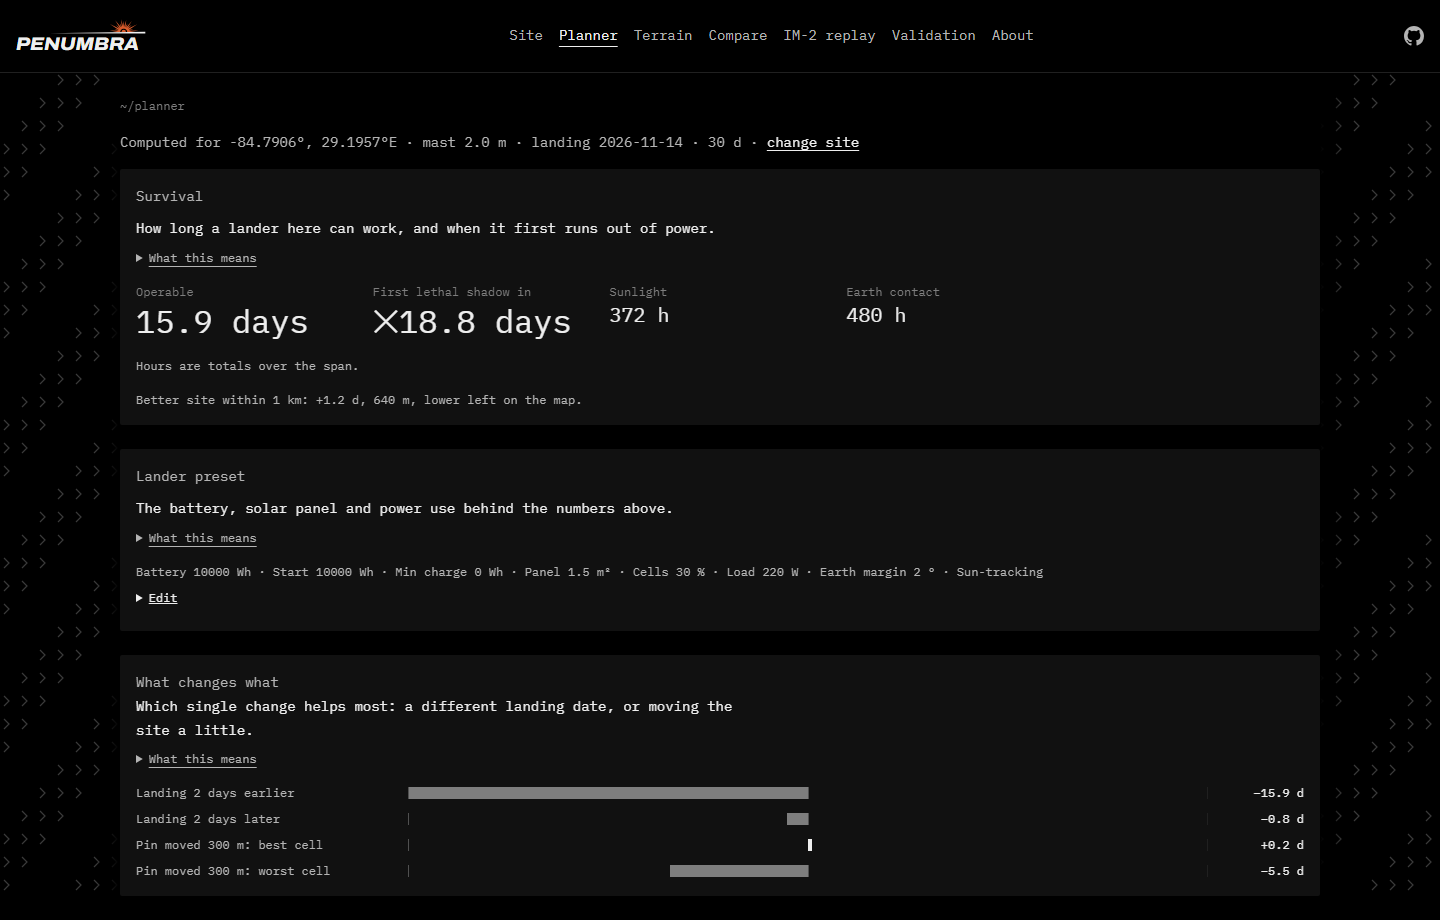
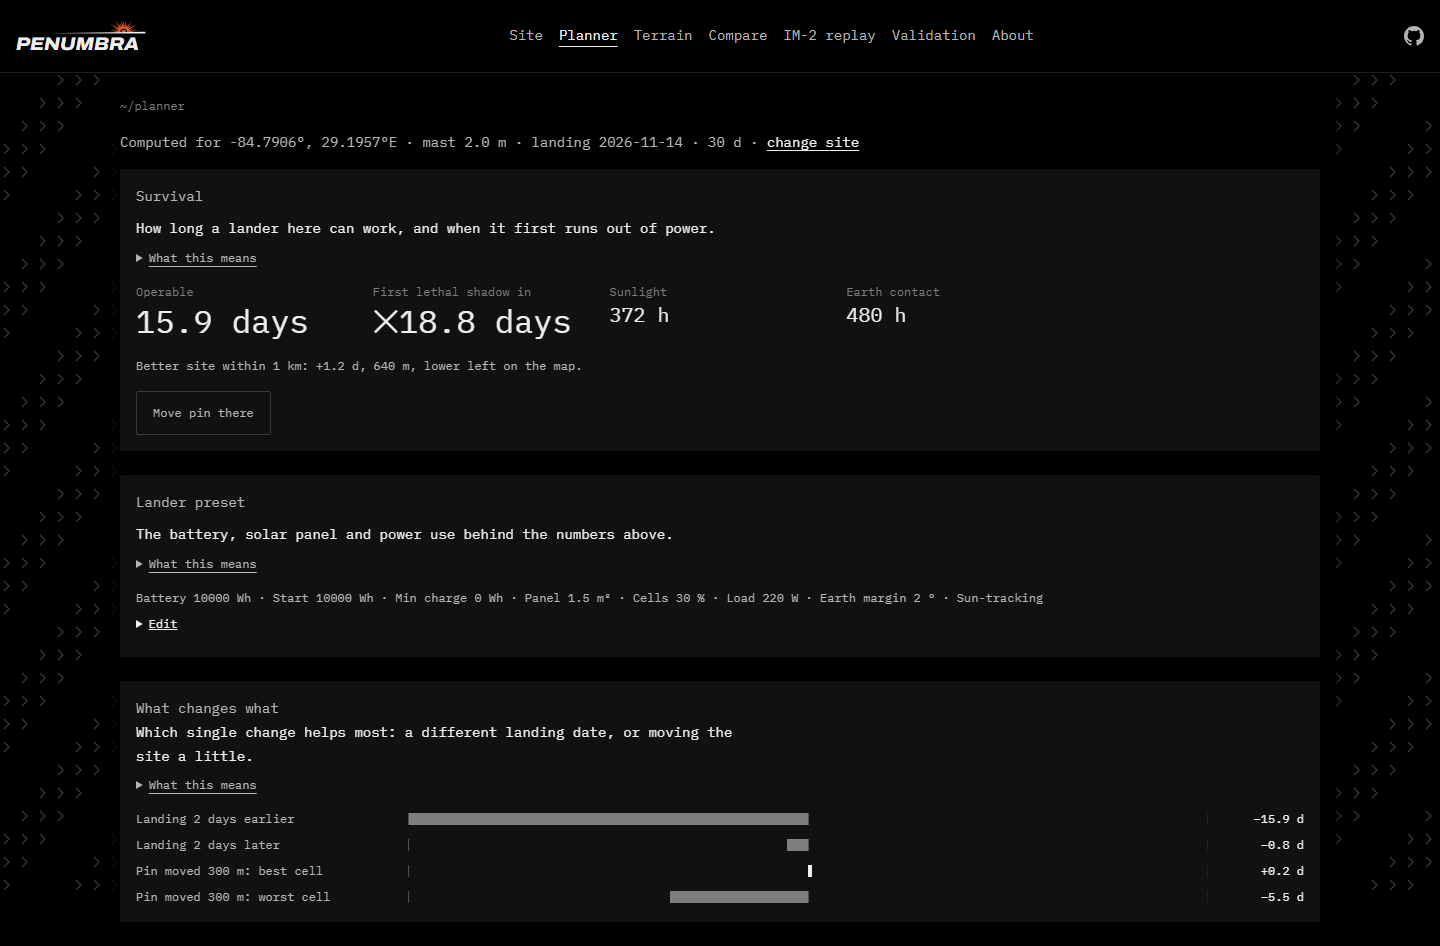
Site: region ranking as one table in a closed dropdown (#100)
The ten ranking cards become one table (rank, region, operable days, first lethal shadow, a move-site button per row). Repeated caveats become numbered footnotes; the method notes fold into 'How it's ranked'. The table sits in a closed dropdown below the map and controls at full width; its summary names the date and the #1 site, so the empty space under the map is gone. The off-grid message, date chips and 'your controls differ' warning stay outside the dropdown.

Smoke: the ranking test opens the dropdown and checks ten rows, rank 1 first and ten move buttons (was: '.who' text '1. '). Screenshots retaken on the merged build.

diff --git a/web/src/lib/SitePicker.svelte b/web/src/lib/SitePicker.svelte
@@ -162,6 +162,7 @@
   const noGridMsg = "Region ranking and heatmap are precomputed for 3 landing dates only (data budget). This site's own timelines and headline still work for any date.";
   const gridDateList = $derived([...new Set(grids.flatMap((g) => g.meta.dates))].sort());
   const allUnranked = $derived(bests.length > 0 && bests.every((x) => !x.b));
+  const notes = $derived([...new Set(bests.flatMap((x) => (x.mark ? x.mark.split(" · ") : [])))]); // each caveat once, as a numbered footnote
   function setDate(d: string) { if (tryDate(d, controls.spanDays)) { controls.date = d; dateDraft = d; } }
   function goBest(id: string, lat: number, lon: number) {
     if (id === tile.region.id) setSite(lat, lon); else onregion(id, [lat, lon]);
@@ -285,39 +286,52 @@
         <output>{controls.mastM.toFixed(1)} m</output>
       </label>
 
-      {#if grids.length}
-        <div class="best" data-testid="best-cells">
-          <h3 data-testid="ranking-title">Region ranking for {controls.date} · default preset, mast {grids[0].meta.mast_m} m, {grids[0].meta.span_days} d span</h3>
-          {#if allUnranked}
-            <p class="gridmsg" data-testid="no-grid-msg">{noGridMsg}</p>
-            <div class="chips">{#each gridDateList as d (d)}<button type="button" data-testid="date-chip" onclick={() => setDate(d)}>{d}</button>{/each}</div>
-          {:else}
-          <ol>
-          {#each bests as { g, b, lat, lon, lethalH, name, mark }, n (g.meta.region)}
-            <li class="col" data-testid="best-{g.meta.region}">
-              <p class="who">{b ? `${n + 1}. ` : ""}{name}</p>
-              {#if mark}<p class="mark" data-testid="mark-{g.meta.region}">{mark}</p>{/if}
-              {#if b}
-                <p class="days">{(b.operableH / 24).toFixed(1)} operable days</p>
-                <p>{lethalH === undefined ? "First lethal shadow unknown" : lethalH === Infinity ? "No lethal shadow in the span" : `First lethal shadow at +${(lethalH / 24).toFixed(1)} d`}</p>
-                <p>{lat.toFixed(4)}°, {lon.toFixed(4)}°E</p>
-                <button type="button" onclick={() => goBest(g.meta.region, lat, lon)}>Move site here</button>
-              {:else}
-                <p>No grid for this date.</p>
-              {/if}
-            </li>
-          {/each}
-          </ol>
-          {/if}
-          <p class="note" data-testid="ranking-scope">The ranking covers each shipped tile's pickable square (about 16.6 km a side), not the whole region: Haworth is 888 km², Mons Mouton Plateau 4452 km².</p>
-          <p class="note">Ranked by operable hours, then by a later first lethal shadow. Best cell of each {grids[0].meta.pixel_m} m point grid on the landing date; a tie goes to the first cell, top row then left to right on the map. Built for the default preset, mast {grids[0].meta.mast_m} m and {grids[0].meta.span_days} d span{gridDiffers ? "; your controls differ, so these days will not match the headline" : ""}.</p>
-        </div>
-      {/if}
-
       {#if refusal}
         <p class="refusal" role="alert" data-testid="refusal">Refused. {refusal}</p>
       {/if}
     </div>
+
+    {#if grids.length}
+      <div class="best" data-testid="best-cells">
+        {#if allUnranked}
+        <h3 data-testid="ranking-title">Region ranking for {controls.date} · default preset, mast {grids[0].meta.mast_m} m, {grids[0].meta.span_days} d span</h3>
+          <p class="gridmsg" data-testid="no-grid-msg">{noGridMsg}</p>
+          <div class="chips">{#each gridDateList as d (d)}<button type="button" data-testid="date-chip" onclick={() => setDate(d)}>{d}</button>{/each}</div>
+        {:else}
+        <!-- A closed dropdown: the summary already names the date and the #1 site; open it for all ten. -->
+        <details class="rankbox" data-testid="ranking">
+        <summary><span data-testid="ranking-title">Region ranking for {controls.date} · default preset, mast {grids[0].meta.mast_m} m, {grids[0].meta.span_days} d span</span>{#if bests[0]?.b}<span class="top" data-testid="ranking-top">{" · best: "}{bests[0].name}, {(bests[0].b.operableH / 24).toFixed(1)} operable days</span>{/if}</summary>
+        <!-- One table, not ten cards: every region stays comparable at a glance; the row or its → moves the site to that best cell. -->
+        <table class="rank" aria-label="Ranked best cells, one row per tile">
+          <thead><tr><th scope="col">#</th><th scope="col">Region</th><th scope="col" class="num">Operable</th><th scope="col">First lethal shadow</th><th scope="col"><span class="sr-only">Move site</span></th></tr></thead>
+          <tbody>
+          {#each bests as { g, b, lat, lon, lethalH, name, mark }, n (g.meta.region)}
+            {@const refs = mark ? mark.split(" · ").map((x) => notes.indexOf(x) + 1) : []}
+            <tr data-testid="best-{g.meta.region}" onclick={b ? () => goBest(g.meta.region, lat, lon) : undefined} class:go={b}>
+              <td class="n">{b ? n + 1 : "–"}</td>
+              <td class="who">{name}{#if refs.length}<sup data-testid="mark-{g.meta.region}" title={mark}>{refs.join(",")}</sup>{/if}</td>
+              {#if b}
+                <td class="num days">{(b.operableH / 24).toFixed(1)} d</td>
+                <td class="lethal" title={lethalH === Infinity ? "No lethal shadow in the span" : undefined}>{lethalH === undefined ? "unknown" : lethalH === Infinity ? "none" : `+${(lethalH / 24).toFixed(1)} d`}</td>
+                <td class="act"><button type="button" aria-label="Move site to {name} best cell, {lat.toFixed(4)}°, {lon.toFixed(4)}°E" title="{lat.toFixed(4)}°, {lon.toFixed(4)}°E" onclick={(e) => { e.stopPropagation(); goBest(g.meta.region, lat, lon); }}>→</button></td>
+              {:else}
+                <td colspan="3">No grid for this date.</td>
+              {/if}
+            </tr>
+          {/each}
+          </tbody>
+        </table>
+        {#if notes.length}<p class="note" data-testid="ranking-notes">{#each notes as x, i (x)}<span><sup>{i + 1}</sup> {x}</span>{/each}</p>{/if}
+        <details class="more">
+          <summary>How it's ranked</summary>
+          <p class="note" data-testid="ranking-scope">The ranking covers each shipped tile's pickable square (about 16.6 km a side), not the whole region: Haworth is 888 km², Mons Mouton Plateau 4452 km².</p>
+          <p class="note">Ranked by operable hours, then by a later first lethal shadow. Best cell of each {grids[0].meta.pixel_m} m point grid on the landing date; a tie goes to the first cell, top row then left to right on the map. Built for the default preset, mast {grids[0].meta.mast_m} m and {grids[0].meta.span_days} d span.</p>
+        </details>
+        </details>
+        {/if}
+        {#if gridDiffers}<p class="note warn">Your controls differ from the default preset, mast {grids[0].meta.mast_m} m and {grids[0].meta.span_days} d span, so these days will not match the headline.</p>{/if}
+      </div>
+    {/if}
   </div>
 </section>
 
@@ -360,14 +374,35 @@
   .tools a:focus-visible { outline: 1px solid var(--color-paper); outline-offset: 2px; }
   @media (pointer: coarse) { .tools a { display: inline-flex; align-items: center; min-height: 44px; } } /* touch: 44 px target like the buttons */
   code { color: var(--color-paper); font-family: inherit; user-select: all; }
-  .best { display: grid; grid-template-columns: 1fr; gap: var(--spacing-8) var(--spacing-16); border: 1px solid var(--color-slate); border-radius: var(--radius-sm); padding: var(--spacing-8) var(--spacing-16); }
+  .best { flex: 1 1 100%; font: var(--text-caption)/var(--leading-caption) var(--font-mono); color: var(--color-ash); display: grid; grid-template-columns: 1fr; gap: var(--spacing-8) var(--spacing-16); border: 1px solid var(--color-slate); border-radius: var(--radius-sm); padding: var(--spacing-8) var(--spacing-16); }
   .best h3 { grid-column: 1 / -1; margin: 0; font: var(--font-weight-regular) var(--text-caption)/var(--leading-caption) var(--font-mono); color: var(--color-paper); }
-  .best ol { grid-column: 1 / -1; display: grid; grid-template-columns: repeat(auto-fit, minmax(140px, 1fr)); gap: var(--spacing-8) var(--spacing-16); margin: 0; padding: 0; list-style: none; }
-  .best .col p, .best .note { margin: 0 0 4px; }
+  .best .note { margin: 0 0 4px; }
+  .rankbox > summary { cursor: pointer; font: var(--text-caption)/var(--leading-caption) var(--font-mono); color: var(--color-paper); }
+  .rankbox > summary:focus-visible { outline: 1px solid var(--color-paper); outline-offset: 2px; }
+  .rankbox > summary .top { color: var(--color-fog); }
+  .rankbox[open] > summary { margin-bottom: var(--spacing-8); }
+  .rankbox > .note, .rankbox > .more { margin-top: var(--spacing-8); }
   .region-note { margin: calc(-1 * var(--spacing-8)) 0 0; color: var(--color-ash); font-variant-numeric: normal; }
-  .best .who { color: var(--color-paper); }
-  .best .col .mark { color: var(--color-ash); }
-  .best .days { color: var(--color-fog); font-variant-numeric: tabular-nums; }
+  .rank { grid-column: 1 / -1; width: 100%; border-collapse: collapse; font: var(--text-caption)/var(--leading-caption) var(--font-mono); color: var(--color-fog); font-variant-numeric: tabular-nums; }
+  .rank th { text-align: left; font-weight: var(--font-weight-regular); color: var(--color-ash); padding: 0 var(--spacing-8) 4px 0; border-bottom: 1px solid var(--color-iron); }
+  .rank td { padding: 2px var(--spacing-8) 2px 0; border-bottom: 1px solid var(--color-iron); vertical-align: middle; }
+  .rank .num { text-align: right; }
+  .rank .days, .rank .lethal { white-space: nowrap; }
+  .rank .n { color: var(--color-ash); width: 2.5ch; }
+  .rank .who { color: var(--color-paper); }
+  .rank .days { color: var(--color-paper); }
+  .rank sup { color: var(--color-ash); margin-left: 2px; }
+  .rank .act { width: 1%; padding-right: 0; text-align: right; }
+  .rank .act button { padding: 2px var(--spacing-8); }
+  .rank tr.go { cursor: pointer; }
+  .rank tr.go:hover td { background: var(--surface-iron); }
+  .best .note sup { margin-right: 2px; }
+  .best .note span + span::before { content: " · "; }
+  .best .warn { color: var(--color-paper); }
+  .best .more > summary { cursor: pointer; width: fit-content; font: var(--text-caption)/var(--leading-caption) var(--font-mono); color: var(--color-fog); text-decoration: underline; text-underline-offset: 4px; }
+  .best .more > summary:focus-visible { outline: 1px solid var(--color-paper); outline-offset: 2px; }
+  .best .more > .note { margin-top: 4px; }
+  .sr-only { position: absolute; width: 1px; height: 1px; overflow: hidden; clip-path: inset(50%); white-space: nowrap; }
   .gridmsg { grid-column: 1 / -1; margin: 0; color: var(--color-paper); }
   .chips { grid-column: 1 / -1; display: flex; flex-wrap: wrap; gap: var(--spacing-8); }
   .chips button { margin-left: 0; border-radius: var(--radius-sm); min-height: 44px; }

diff --git a/web/tests/smoke.spec.ts b/web/tests/smoke.spec.ts
@@ -528,7 +528,13 @@ test("ten regions: each shows its tier and label, and the ranking is numbered an
   const days = (await page.getByTestId("best-cells").locator(".days").allTextContents()).map((t) => parseFloat(t));
   expect(days.length).toBe(10);
   expect([...days].sort((a, b) => b - a)).toEqual(days);
-  await expect(page.getByTestId("best-cells").locator(".who").first()).toContainText("1. ");
+  // one ranked table in a closed dropdown whose summary names the #1 site; open it, rank starts at 1, each row's → moves the site
+  await expect(page.getByTestId("ranking-top")).toContainText("best: ");
+  await page.getByTestId("ranking").locator("summary").first().click();
+  const rows = page.getByTestId("best-cells").locator("tbody tr");
+  await expect(rows).toHaveCount(10);
+  await expect(rows.first().locator(".n")).toHaveText("1");
+  await expect(page.getByTestId("best-cells").getByRole("button", { name: /^Move site to / })).toHaveCount(10);
 });
 
 test("off-grid date: one message and three chips, a chip restores the ranking; move pin matches the readout (#111)", async ({ page }) => {
